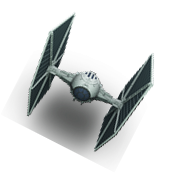
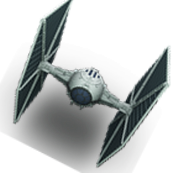
All tie squadrons done. Impossible difficulty, balance time.

diff --git a/js/script.js b/js/script.js
@@ -46,6 +46,8 @@ var tieWidth = 24;
 var tieHeight = 24;
 var tieLeftWidth = 28;
 var tieLeftHeight = 28;
+var tieRightWidth = 28;
+var tieRightHeight = 28;
 
 // Images
 var xWing = new Image();
@@ -69,6 +71,8 @@ warning.src = 'css/images/warning.png';
 var tieLeft = new Image();
 tieLeft.src = 'css/images/tief_left.png';
 
+var tieRight = new Image();
+tieRight.src = 'css/images/tief_right.png';
 
 // Event listeners
 document.addEventListener("keydown", keyDownHandler, false);
@@ -165,10 +169,13 @@ tieLeftSquadron = [];
 function drawLeftTie() {
 	var n = tieLeftSquadron.length;
 	for (var i = 0; n > i; i++) {
+		tieLeftSquadron[i][1] += 1;
+		tieLeftSquadron[i][0] += 1;
 		if (tieLeftSquadron[i][2] == 1) {
 			ctx.drawImage(tieLeft, tieLeftSquadron[i][0], tieLeftSquadron[i][1], tieLeftWidth, tieLeftHeight);
-			tieLeftSquadron[i][1] += 1;
-			tieLeftSquadron[i][0] += 1;
+		}
+		if (tieLeftSquadron[i][1] >= canvas.height) {
+			tieLeftSquadron.splice(i, 1);
 		}
 	}
 }
@@ -214,7 +221,7 @@ function drawLeftTLaser() {
 	for (var i = 0; n > i; i++) {
 		if (tieLeftLasers[i][1] < canvas.height) {
 			ctx.beginPath();
-			ctx.rect(tieLeftLasers[i][0], tieLeftLasers[i][1], 1, 2);
+			ctx.rect(tieLeftLasers[i][0], tieLeftLasers[i][1], 2, 2);
 			ctx.fillStyle = "rgb(86,206,82)";
 			ctx.fill();
 			ctx.closePath();
@@ -290,6 +297,72 @@ function drawMidTLaser() {
 	}
 }
 
+// Right squadron functions
+tieRightSquadron = [];
+function drawRightTie() {
+	var n = tieRightSquadron.length;
+	for (var i = 0; n > i; i++) {
+		tieRightSquadron[i][0] -= 1;
+		tieRightSquadron[i][1] += 1; //Before drawing so you they actually end up being deleted
+		if (tieRightSquadron[i][2] == 1) {
+			ctx.drawImage(tieRight, tieRightSquadron[i][0], tieRightSquadron[i][1], tieRightWidth, tieRightHeight);
+		}
+		if (tieRightSquadron[i][1] >= canvas.height) {
+			tieRightSquadron.splice(i, 1);
+		}
+	}
+}
+function addRightTie() {
+	var n = canvas.width / 5;
+	var tie = tieRightSquadron.length; // Only 5 ties please!
+	
+	if (tie < 5) {
+		for (var i = 1; 5 >= i; i++) {
+			var t = [canvas.width + tieRightWidth * i * 2, - 150 - tieRightHeight * i, 1, 3]; // Why is it diffrent than left one? No idea | x, y, status, type
+			tieRightSquadron.push(t);
+		}
+	}	
+}
+
+tieRightLasers = [];
+var shotRightTCD = 40;
+function addRightTLaser() {
+	var n = tieRightSquadron.length;
+	if (shotRightTCD >= 40)
+	for (var i = 0; n > i; i++) {
+		if (tieRightSquadron[i][2] == 1) {
+			var tLaserX = tieRightSquadron[i][0] + tieWidth / 2;
+			var tLaserY = tieRightSquadron[i][1] + tieHeight / 2;
+			var tLaserStatus = 1;
+			var tLaserArray = [tLaserX, tLaserY, tLaserStatus];
+			tieRightLasers.push(tLaserArray);
+			shotRightTCD = 0; // Shot reset
+		}
+	}
+}
+
+function moveRightTLaser() {
+	var n = tieRightLasers.length;
+	for (var i = 0; n > i; i++) {
+		tieRightLasers[i][1] += 2;
+		tieRightLasers[i][0] -= 2;
+	}
+}
+
+function drawRightTLaser() {
+	var n = tieRightLasers.length;
+	for (var i = 0; n > i; i++) {
+		if (tieRightLasers[i][1] < canvas.height) {
+			ctx.beginPath();
+			ctx.rect(tieRightLasers[i][0], tieRightLasers[i][1], 2, 2);
+			ctx.fillStyle = "rgb(86,206,82)";
+			ctx.fill();
+			ctx.closePath();
+		} else {
+			tieRightLasers.splice(i, 1);
+		}
+	}
+}
 
 
 // X-Wing Functions.
@@ -373,6 +446,22 @@ function laserLeftCol() {
 	}
 }
 
+// XWing's lasers colision with left ties
+function laserRightCol() {
+	var n = lasersXwing.length;
+	var tie = tieRightSquadron.length;
+	for (var i = 0; n > i; i++) { // Check each right tie
+		for (var j = 0; tie > j; j++) {
+			if (lasersXwing[i][1] <= tieRightSquadron[j][1] + tieHeight && tieRightSquadron[j][2] == 1) {
+				if (lasersXwing[i][0] < tieRightSquadron[j][0] + tieWidth && lasersXwing[i][0] + 2 > tieRightSquadron[j][0]) {
+					tieRightSquadron[j][2] = 0;
+					lasersXwing.splice(i, 1);
+				}
+			}
+		}
+	}
+}
+
 // Colision with middle tie lasers
 function tMidLaserCol() {
 	var n = tieMidLasers.length;
@@ -409,6 +498,23 @@ function tLeftLaserCol() {
 	}
 }
 
+// Colision with right tie lasers
+function tRightLaserCol() {
+	var n = tieRightLasers.length;
+	for (var i = 0; n > i; i++) {
+		if (tieRightLasers[i][1] >= xWingY && tieRightLasers[i][1] <= xWingY + xWingHeight) {
+			if (tieRightLasers[i][0] > xWingX && tieRightLasers[i][0] < xWingX + xWingWidth) {
+				if (nbrOfLifes > 1) {
+					tieRightLasers.splice(i, 1);
+					nbrOfLifes -= 1;
+				} else {
+					alert("You lose.");
+					document.location.reload();
+				}
+			}
+		}
+	}
+}
 
 function moveXwing() {
 	if(rightPressed && canvas.width - xWingWidth > xWingX) {
@@ -449,6 +555,17 @@ function xWingLeftCol() {
 	}
 }
 
+function xWingRightCol() {
+	var tie = tieRightSquadron.length;
+	for (var i = 0; tie > i; i++) {
+		if (xWingY <= tieRightSquadron[i][1] + tieHeight && xWingY >= tieRightSquadron[i][1] && tieRightSquadron[i][2] == 1) {
+			if (xWingX < tieRightSquadron[i][0] + tieWidth && xWingX + xWingWidth > tieRightSquadron[i][0]) {
+				alert("You crashed into the Tie Fighter!");
+				document.location.reload();
+			}
+		}
+	}
+}
 // Draw
 function draw() {
 	ctx.clearRect(0, 0, canvas.width, canvas.height);
@@ -461,6 +578,7 @@ function draw() {
 // XWing colision with ties	
 	xWingMidCol();
 	xWingLeftCol();
+	xWingRightCol();
 	drawXwing();
 // Left Tie functions 
 	addLeftTie();
@@ -469,23 +587,33 @@ function draw() {
 	moveLeftTLaser();
 	drawLeftTLaser();
 // Mid Tie functions
-	//addMidTie();
-	//drawMidTie();
-	//addMidTLaser();
-	//moveMidTLaser();
-	//drawMidTLaser();
-// XWing's colistion with tie lasers
+	addMidTie();
+	drawMidTie();
+	addMidTLaser();
+	moveMidTLaser();
+	drawMidTLaser();
+// Right Tie functions
+	addRightTie();
+	drawRightTie();
+	addRightTLaser();
+	moveRightTLaser();
+	drawRightTLaser();
+// XWing's colision with tie lasers
 	tMidLaserCol();
 	tLeftLaserCol();
+	tRightLaserCol();
 	moveXwing();
 	pressLaser();
 	moveLaser();
 	drawLaser();
+// Destroy ties on XWing's laser colision
 	laserMidCol();
 	laserLeftCol();
-	shotCD += 1;	// Cooldown reset
-	shotMidTCD += 1;	// Cooldown on tie shots
-	shotLeftTCD += 1; // Cooldown on left tie shots
+	laserRightCol();
+	shotCD += 2;	// Cooldown reset on XWing shots
+	shotMidTCD += 0.5;	// Cooldown on tie shots
+	shotLeftTCD += 0.4; // Cooldown on left tie shots
+	shotRightTCD += 0.4; // Cooldown on right tie shots
 }
 
 // vnjksbv
